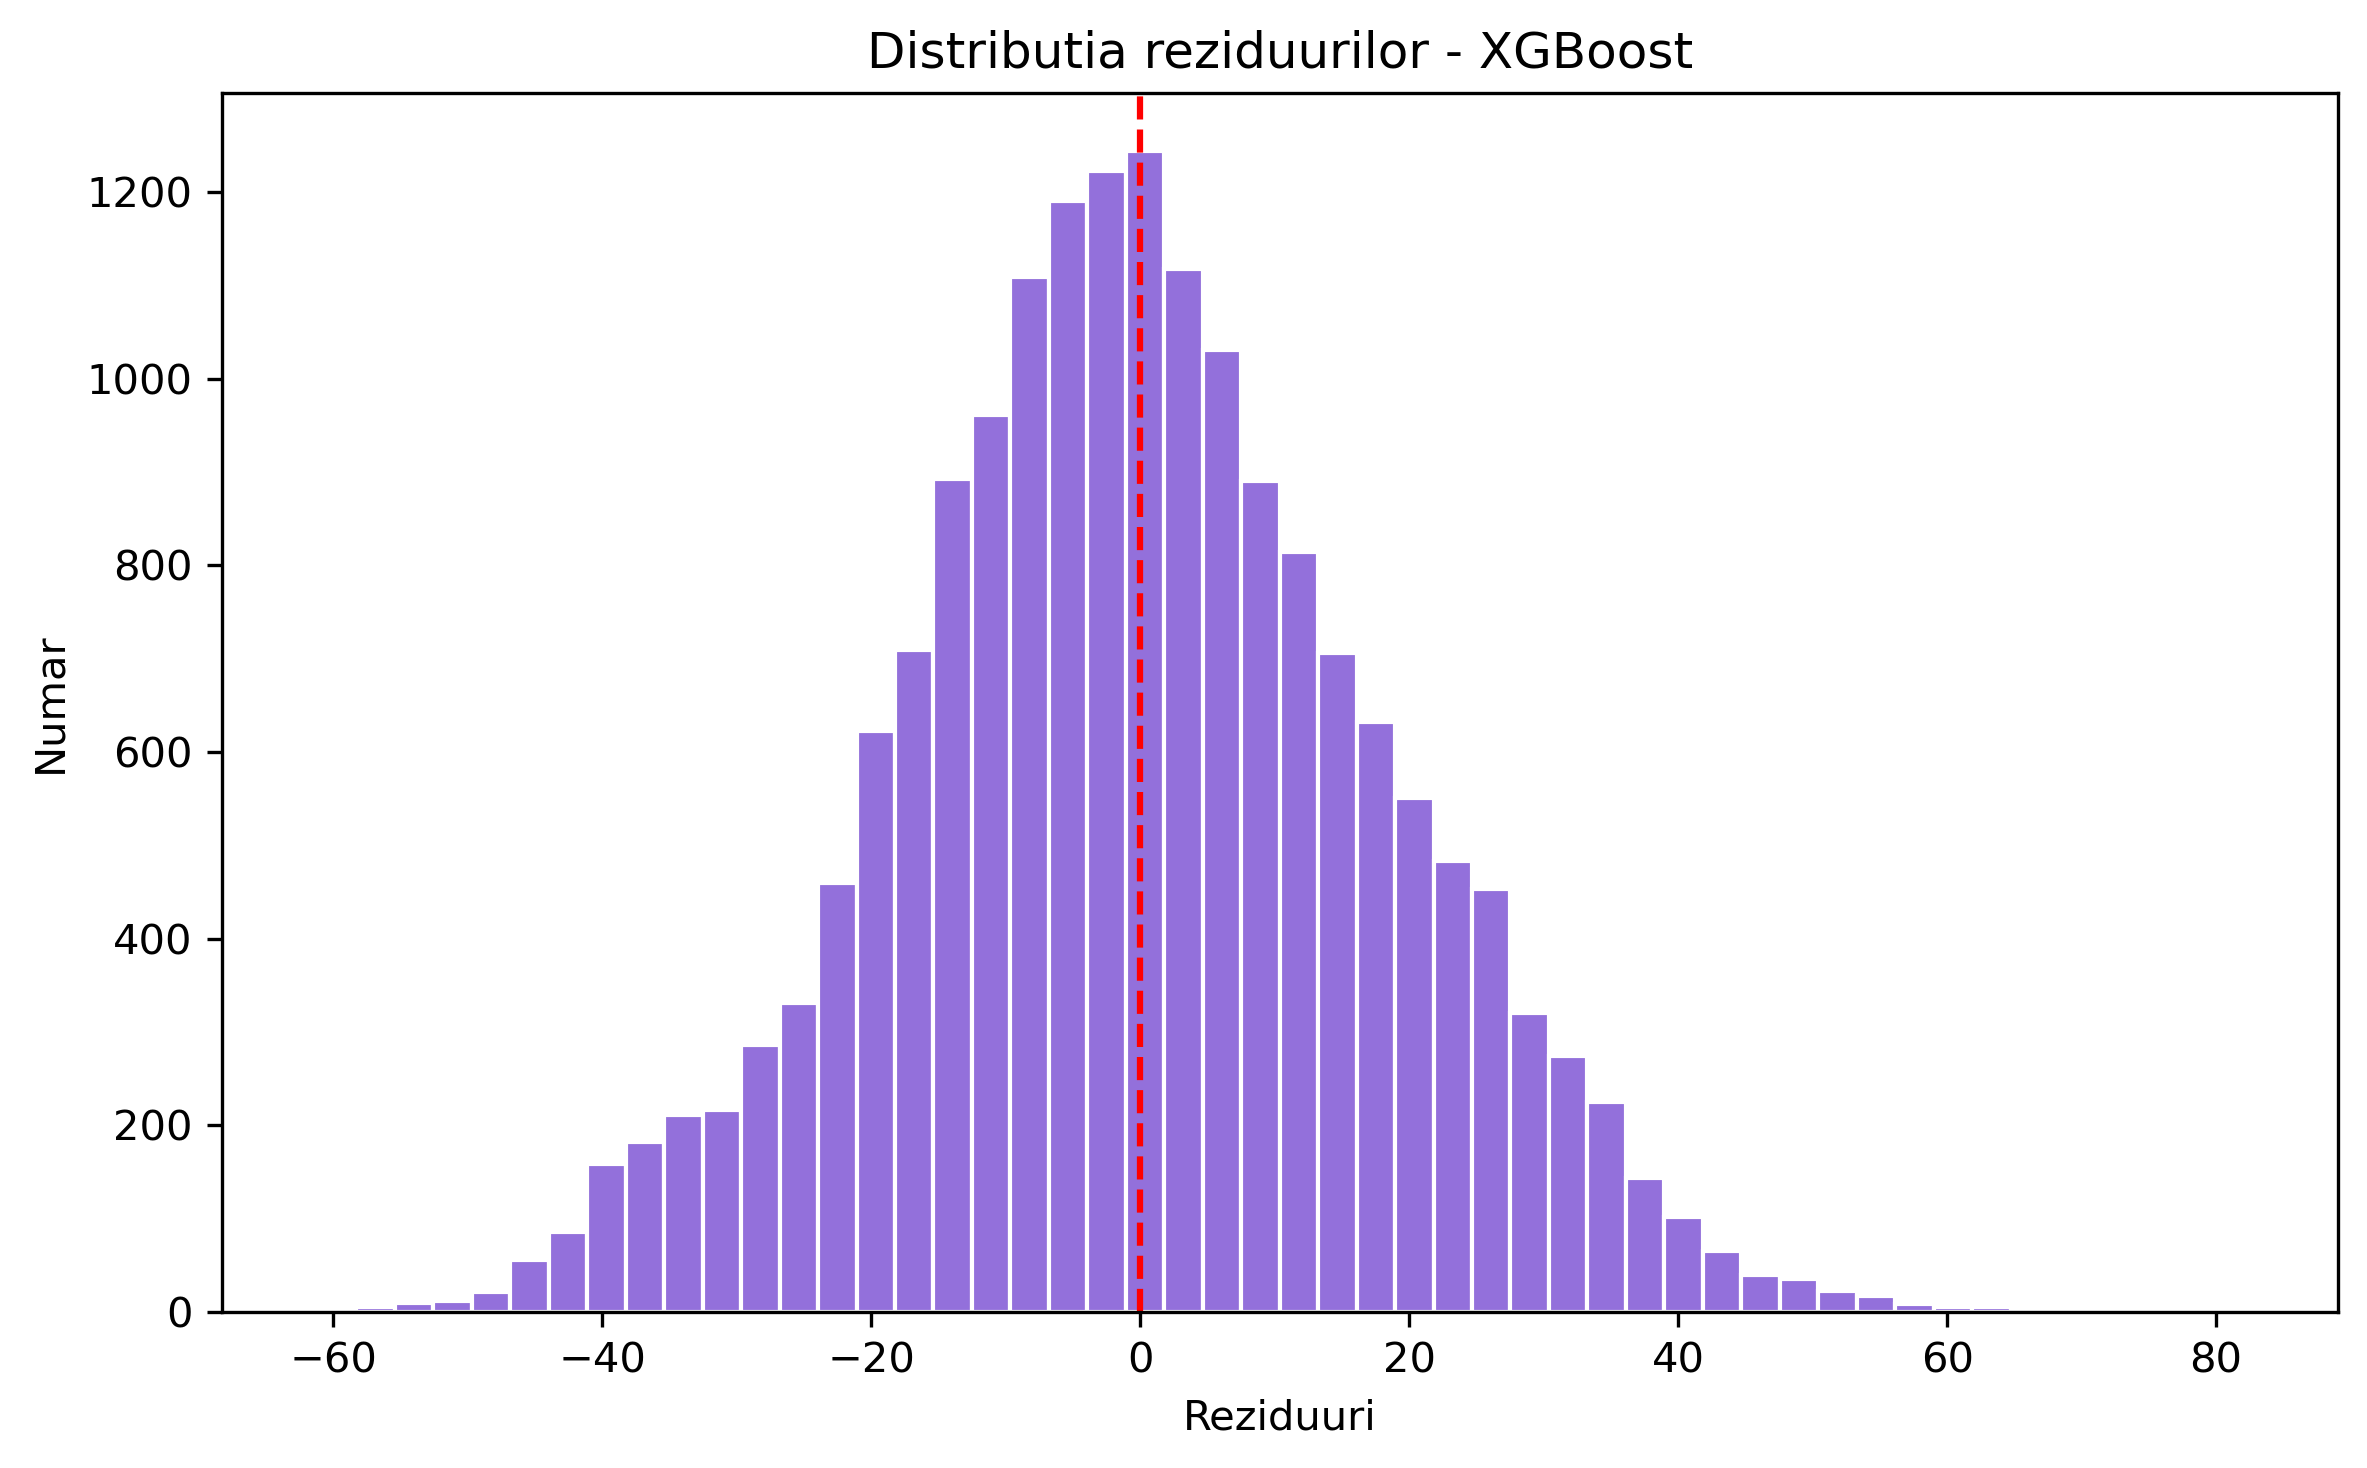
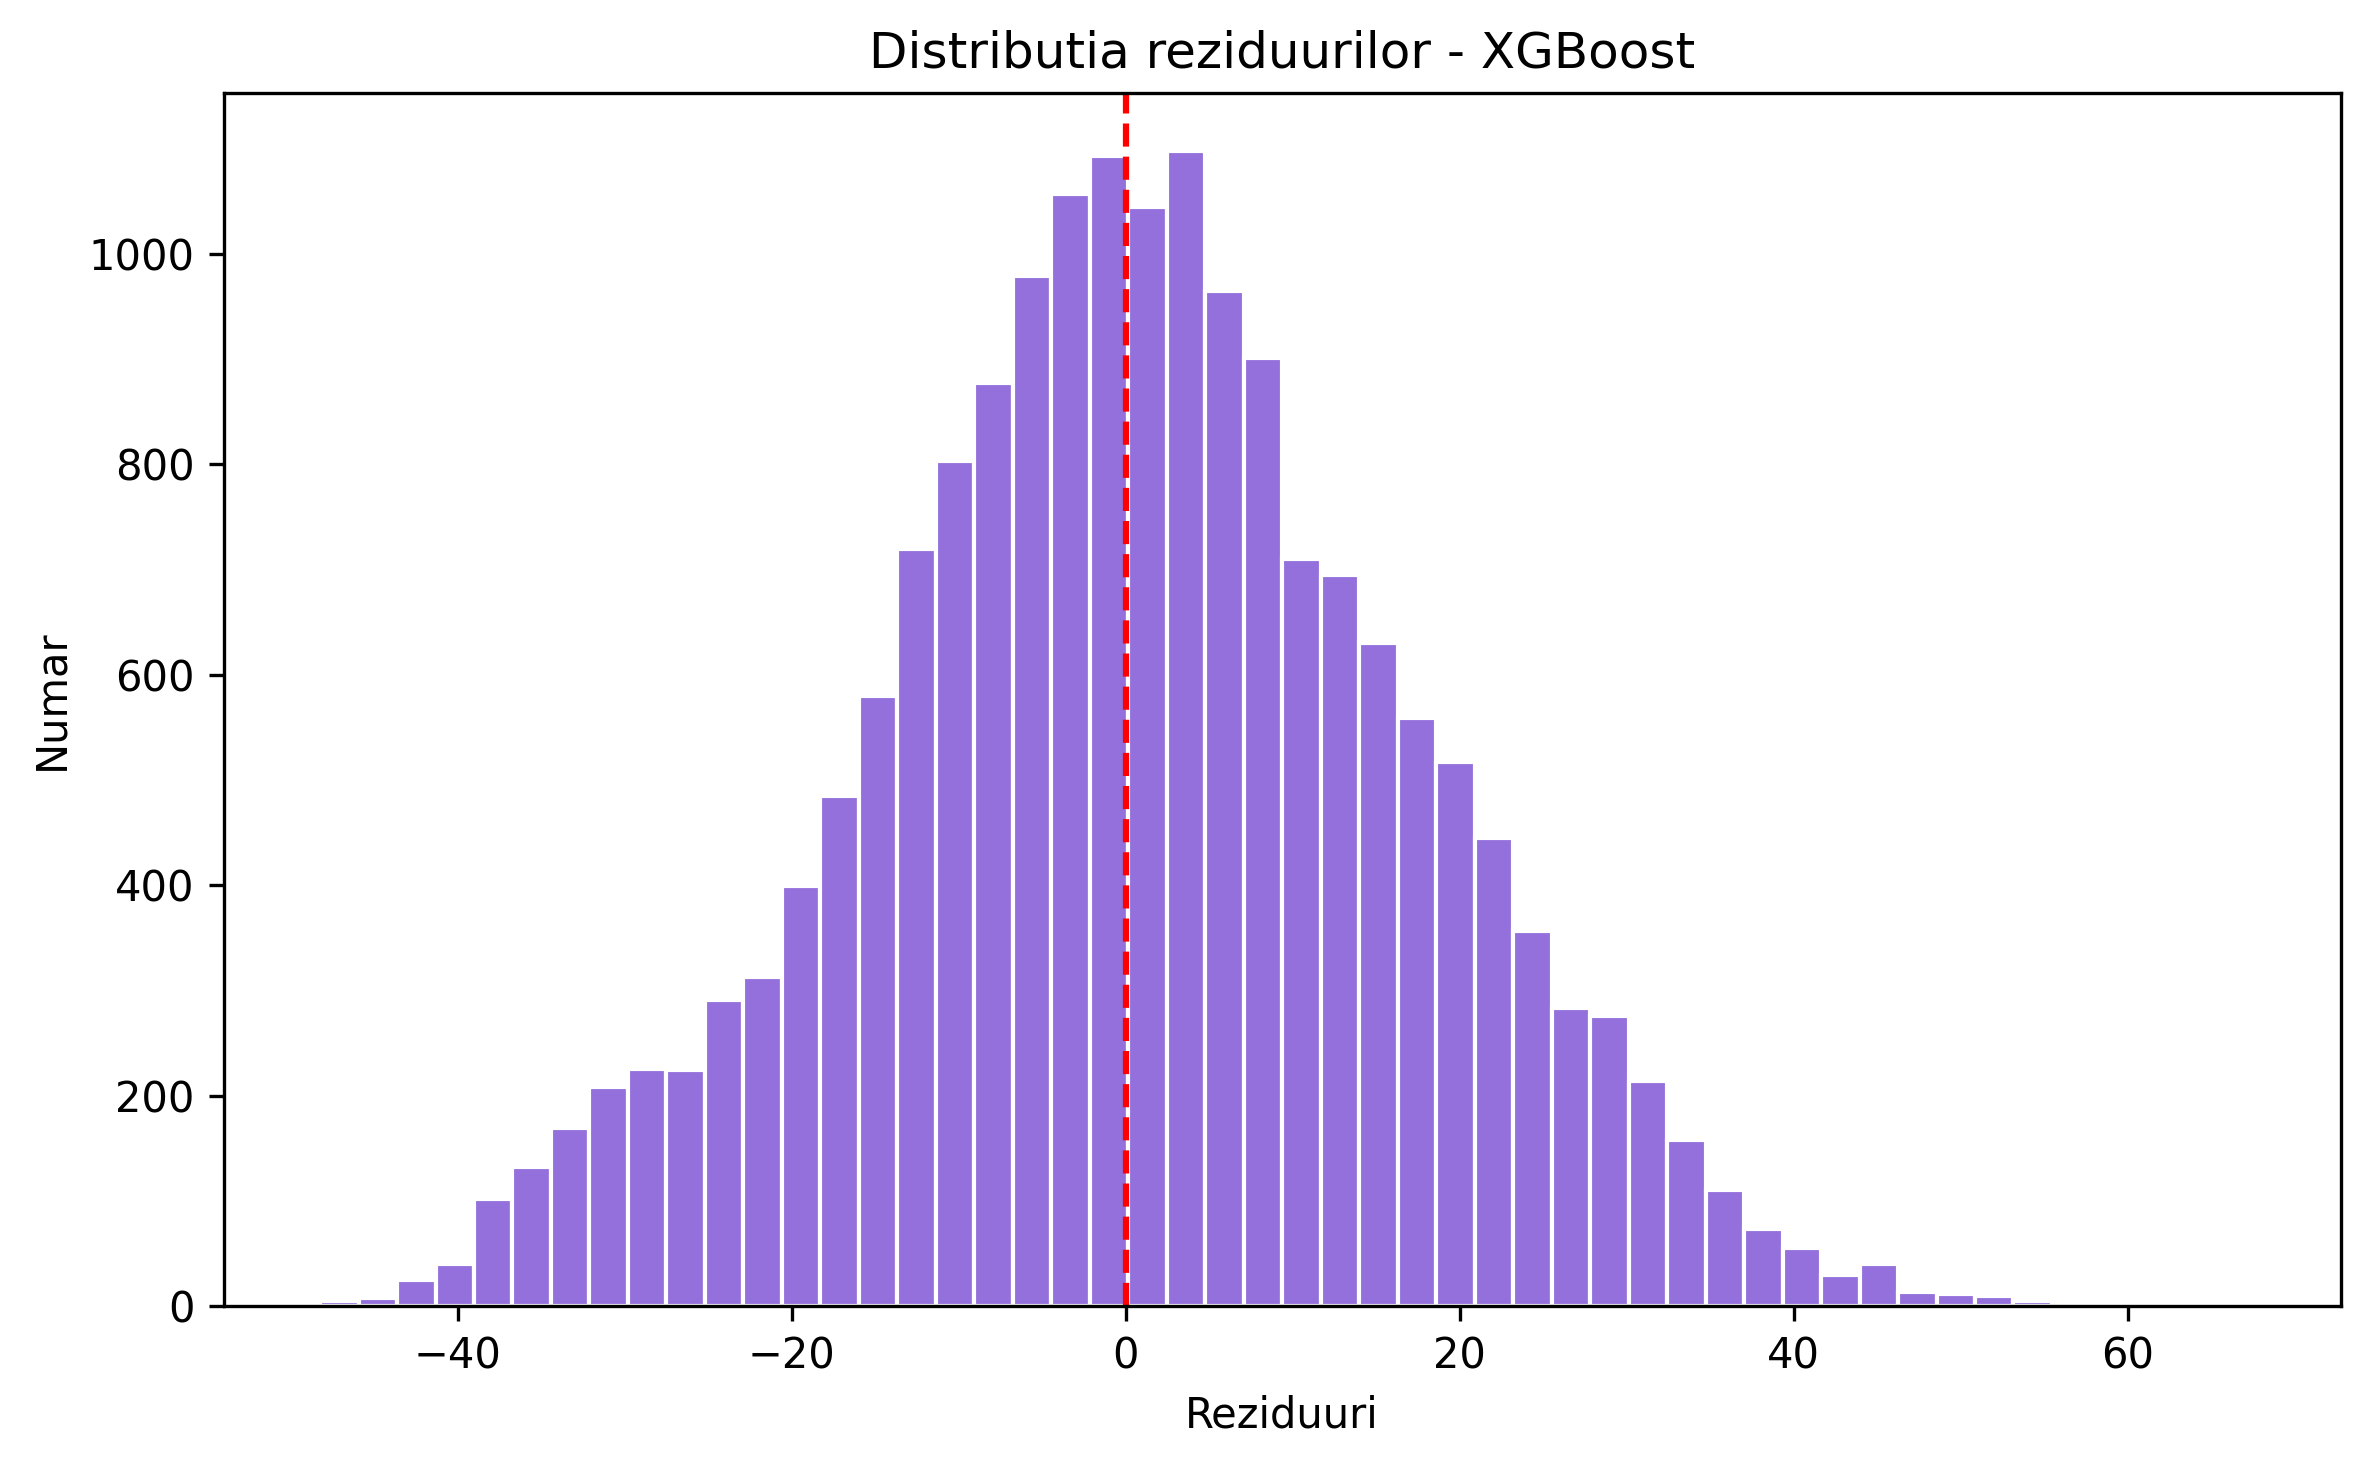
maybe last run

diff --git a/cod/regresie.py b/cod/regresie.py
@@ -133,6 +133,24 @@ xgb_rand.fit(x_train, y_train)
 print("Parametri optimi XGB:", xgb_rand.best_params_)
 best_xgb = xgb_rand.best_estimator_
 
+#afisare mae, rmse, r2 normale si optimizate
+def evaluare(nume, y_test, pred):
+    print(f"\n==={nume}===")
+    print(f"MAE: {mean_absolute_error(y_test, pred):.3f}")
+    print(f"RMSE: {np.sqrt(mean_squared_error(y_test, pred)):.3f}")
+    print(f"R2: {r2_score(y_test, pred):.3f}")
+evaluare("Regresie Liniara(normala)", y_test, LinearRegression().fit(x_train, y_train).predict(x_test))
+evaluare("Ridge(normala)", y_test, Ridge(alpha=1.0).fit(x_train, y_train).predict(x_test))
+evaluare("RF(normal)", y_test, RandomForestRegressor(n_estimators=100, random_state=42, n_jobs=-1).fit(x_train, y_train).predict(x_test))
+evaluare("KNN(normal)", y_test, KNeighborsRegressor(n_neighbors=5).fit(x_train, y_train).predict(x_test))
+evaluare("XGB(normal)", y_test, XGBRegressor(n_estimators=200, learning_rate=0.1, max_depth=6, random_state=42, eval_metric="rmse").fit(x_train, y_train).predict(x_test))
+
+evaluare("Ridge(optimizat)", y_test, best_ridge.predict(x_test))
+evaluare("RF(optimizat)", y_test, best_rf.predict(x_test))
+evaluare("KNN(optimizat)", y_test, best_knn.predict(x_test))
+evaluare("XGB(optimizat)", y_test, best_xgb.predict(x_test))
+
+
 pipe_optimizat = {
     "RL": Pipeline([("scaler", StandardScaler()),("model", LinearRegression())]),
     "Ridge": Pipeline([("scaler", StandardScaler()), ("model", best_ridge)]),
@@ -151,7 +169,7 @@ metrici_optimizat = {
 }
 print("\n--- 10 rulari ---")
 for rs in range(10):
-    x_train_r, x_test_r, y_train_r, y_test_r = train_test_split(x, y, test_size=0.2, random_state=rs)
+    x_train_r, x_test_r, y_train_r, y_test_r = train_test_split(x.values, y.values, test_size=0.2, random_state=rs)
 
 
     for nume in modele:
@@ -210,7 +228,7 @@ print("\n=== Validare incrucisata regresie(5fold)===")
 cv_regresie = KFold(n_splits=5, shuffle=True, random_state=42)
 
 for nume, pipe in pipe_optimizat.items():
-    rezultate_cv = cross_validate(pipe, x, y, cv=cv_regresie, scoring={
+    rezultate_cv = cross_validate(pipe, x.values, y.values, cv=cv_regresie, scoring={
         "mae": "neg_mean_absolute_error",
         "rmse": "neg_root_mean_squared_error",
         "r2": "r2"
@@ -226,22 +244,6 @@ for nume, pipe in pipe_optimizat.items():
         f"RMSE={rmse_cv.mean():.3f} (+- {rmse_cv.std():.3f}) "
         f"R2={r2_cv.mean():.3f} (+- {r2_cv.std():.3f})"
     )
-#afisare mae, rmse, r2 normale si optimizate
-def evaluare(nume, y_test, pred):
-    print(f"\n==={nume}===")
-    print(f"MAE: {mean_absolute_error(y_test, pred):.3f}")
-    print(f"RMSE: {np.sqrt(mean_squared_error(y_test, pred)):.3f}")
-    print(f"R2: {r2_score(y_test, pred):.3f}")
-evaluare("Regresie Liniara(normala)", y_test, LinearRegression().fit(x_train, y_train).predict(x_test))
-evaluare("Ridge(normala)", y_test, Ridge(alpha=1.0).fit(x_train, y_train).predict(x_test))
-evaluare("RF(normal)", y_test, RandomForestRegressor(n_estimators=100, random_state=42, n_jobs=-1).fit(x_train, y_train).predict(x_test))
-evaluare("KNN(normal)", y_test, KNeighborsRegressor(n_neighbors=5).fit(x_train, y_train).predict(x_test))
-evaluare("XGB(normal)", y_test, XGBRegressor(n_estimators=200, learning_rate=0.1, max_depth=6, random_state=42, eval_metric="rmse").fit(x_train, y_train).predict(x_test))
-
-evaluare("Ridge(optimizat)", y_test, best_ridge.predict(x_test))
-evaluare("RF(optimizat)", y_test, best_rf.predict(x_test))
-evaluare("KNN(optimizat)", y_test, best_knn.predict(x_test))
-evaluare("XGB(optimizat)", y_test, best_xgb.predict(x_test))
 
 #figura comparatie metrici medie modele optimizate
 fig, axes = plt.subplots(1, 3, figsize=(18, 6))
@@ -308,52 +310,52 @@ plt.tight_layout()
 plt.savefig("../figuri_regresie/boxplot_r2.png", dpi=300, bbox_inches="tight")
 plt.show()
 
-#valori reale vs prezise xgboost
-pred_xgb_fig = best_xgb.predict(x_test)
+#valori reale vs prezise RF(cel mai bun model)
+pred_rf_fig = best_rf.predict(x_test)
 plt.figure(figsize=(8, 6))
-plt.scatter(y_test, pred_xgb_fig, alpha=0.3, s=10, color="steelblue")
+plt.scatter(y_test, pred_rf_fig, alpha=0.3, s=10, color="steelblue")
 plt.plot([0, 100], [0, 100], color="red", linestyle="--", label="Predictie perfecta")
 plt.xlabel("Popularitate reala")
 plt.ylabel("Popularitate prezisa")
-plt.title("Valori reale vs valori prezise - XGBoost")
+plt.title("Valori reale vs valori prezise - Random Forest")
 plt.legend()
 plt.tight_layout()
-plt.savefig("../figuri_regresie/valori_reale_vs_prezise_xgb.png", dpi=300, bbox_inches="tight")
+plt.savefig("../figuri_regresie/valori_reale_vs_prezise_rf.png", dpi=300, bbox_inches="tight")
 plt.show()
 
-#reziduuri xgboost
-reziduuri = y_test - pred_xgb_fig
+#reziduuri rf
+reziduuri = y_test - pred_rf_fig
 plt.figure(figsize=(8, 6))
-plt.scatter(pred_xgb_fig, reziduuri, alpha=0.3, s=10, color="seagreen")
+plt.scatter(pred_rf_fig, reziduuri, alpha=0.3, s=10, color="seagreen")
 plt.axhline(0, color="red", linestyle="--")
 plt.xlabel("Popularitate prezisa")
 plt.ylabel("Reziduuri")
-plt.title("Grafic reziduuri - XGBoost")
+plt.title("Grafic reziduuri - Random Forest")
 plt.tight_layout()
-plt.savefig("../figuri_regresie/reziduuri_xgb.png", dpi=300, bbox_inches="tight")
+plt.savefig("../figuri_regresie/reziduuri_rf.png", dpi=300, bbox_inches="tight")
 plt.show()
 
-#distributia reziduurilor XGBoost
+#distributia reziduurilor rf
 plt.figure(figsize=(8, 5))
 plt.hist(reziduuri, bins=50, color="mediumpurple", edgecolor="white")
 plt.axvline(0, color="red", linestyle="--")
 plt.xlabel("Reziduuri")
 plt.ylabel("Numar")
-plt.title("Distributia reziduurilor - XGBoost")
+plt.title("Distributia reziduurilor - Random Forest")
 plt.tight_layout()
-plt.savefig("../figuri_regresie/distributie_reziduuri_xgb.png", dpi=300, bbox_inches="tight")
+plt.savefig("../figuri_regresie/distributie_reziduuri_rf.png", dpi=300, bbox_inches="tight")
 plt.show()
 
-#importanta caracteristicilor xgboost
-importanta = best_xgb.feature_importances_
+#importanta caracteristicilor rf
+importanta = best_rf.feature_importances_
 indici = np.argsort(importanta)
 
 plt.figure(figsize=(8, 6))
 plt.barh(range(len(indici)), importanta[indici], color="darkorange")
 plt.yticks(range(len(indici)), [caracteristici[i] for i in indici])
-plt.title("Importanta caracteristicilor - XGBoost")
+plt.title("Importanta caracteristicilor - Random Forest")
 plt.tight_layout()
-plt.savefig("../figuri_regresie/importanta_caracteristici_xgb.png", dpi=300, bbox_inches="tight")
+plt.savefig("../figuri_regresie/importanta_caracteristici_rf.png", dpi=300, bbox_inches="tight")
 plt.show()
 
 

diff --git a/cod/clasificare.py b/cod/clasificare.py
@@ -85,7 +85,7 @@ x_test = scaler.transform(x_test)
 neg = (y_train == 0).sum()
 pos = (y_train == 1).sum()
 raport = neg / pos
-print(f"Raport clase: {raport:.2f}")
+print(f"Raport clase: {raport:.3f}")
 
 
 #Regresie logistica
@@ -353,27 +353,27 @@ print("-"*110)
 
 for nume in modele:
     m = metrici_optimizat[nume]
-    auc = (f"{np.mean(m['auc']):.3f}+- {np.std(m['auc']):.3f}" if m["auc"] else "---")
+    auc = (f"{np.mean(m['auc']):>8.3f}+- {np.std(m['auc']):.3f}" if m["auc"] else "---")
     print(f"{nume:<6}"
-          f" {np.mean(m['acc']):.3f}+- {np.std(m['acc']):.3f}"
-          f" {np.mean(m['prec']):.3f}+- {np.std(m['prec']):.3f}"
-          f" {np.mean(m['rec']):.3f}+- {np.std(m['rec']):.3f}"
-          f" {np.mean(m['f1']):.3f}+- {np.std(m['f1']):.3f}"
+          f" {np.mean(m['acc']):>8.3f}+- {np.std(m['acc']):.3f}"
+          f" {np.mean(m['prec']):>8.3f}+- {np.std(m['prec']):.3f}"
+          f" {np.mean(m['rec']):>8.3f}+- {np.std(m['rec']):.3f}"
+          f" {np.mean(m['f1']):>8.3f}+- {np.std(m['f1']):.3f}"
           f" {auc}"
           f" {np.mean(m['mcc']):.3f}+- {np.std(m['mcc']):.3f}")
 
 #tabel comparatie varianta normala vs optimizata
 print(f"\n{'Model':<6} {'Acc normal':>18} {'Acc optim':>18}"
       f"{'F1 normal':>18} {'F1 optim':>18}")
-print("-"*78)
+print("-"*82)
 for nume in modele:
     normal = metrici_normal[nume]
     optim = metrici_optimizat[nume]
     print(f"{nume:<6}"
-          f" {np.mean(normal['acc']):.3f}+- {np.std(normal['acc']):.3f}"
-          f" {np.mean(optim['acc']):.3f}+- {np.std(optim['acc']):.3f}"
-          f" {np.mean(normal['f1']):.3f}+- {np.std(normal['f1']):.3f}"
-          f" {np.mean(optim['f1']):.3f}+- {np.std(optim['f1']):.3f}")
+          f" {np.mean(normal['acc']):>8.3f}+- {np.std(normal['acc']):.3f}"
+          f" {np.mean(optim['acc']):>8.3f}+- {np.std(optim['acc']):.3f}"
+          f" {np.mean(normal['f1']):>8.3f}+- {np.std(normal['f1']):.3f}"
+          f" {np.mean(optim['f1']):>8.3f}+- {np.std(optim['f1']):.3f}")
 
 #Validare incrucisata
 print("\n===Validare incrucisata(5fold)===")
@@ -405,7 +405,7 @@ plt.figure(figsize=(8,6))
 plt.plot(prag_decizie, precizie[:-1], label="Precizie")
 plt.plot(prag_decizie, rechemare[:-1], label="Rechemare")
 plt.plot(prag_decizie, scor_f1, label="F1")
-plt.axvline(prag_decizie_optim, color="red", linestyle="--", label=f"Prag de decizie optim: {prag_decizie_optim:.2f}")
+plt.axvline(prag_decizie_optim, color="red", linestyle="--", label=f"Prag de decizie optim: {prag_decizie_optim:.3f}")
 plt.xlabel("Prag de decizie")
 plt.title("Optimizare prag de decizie - XGBoost")
 plt.legend()
